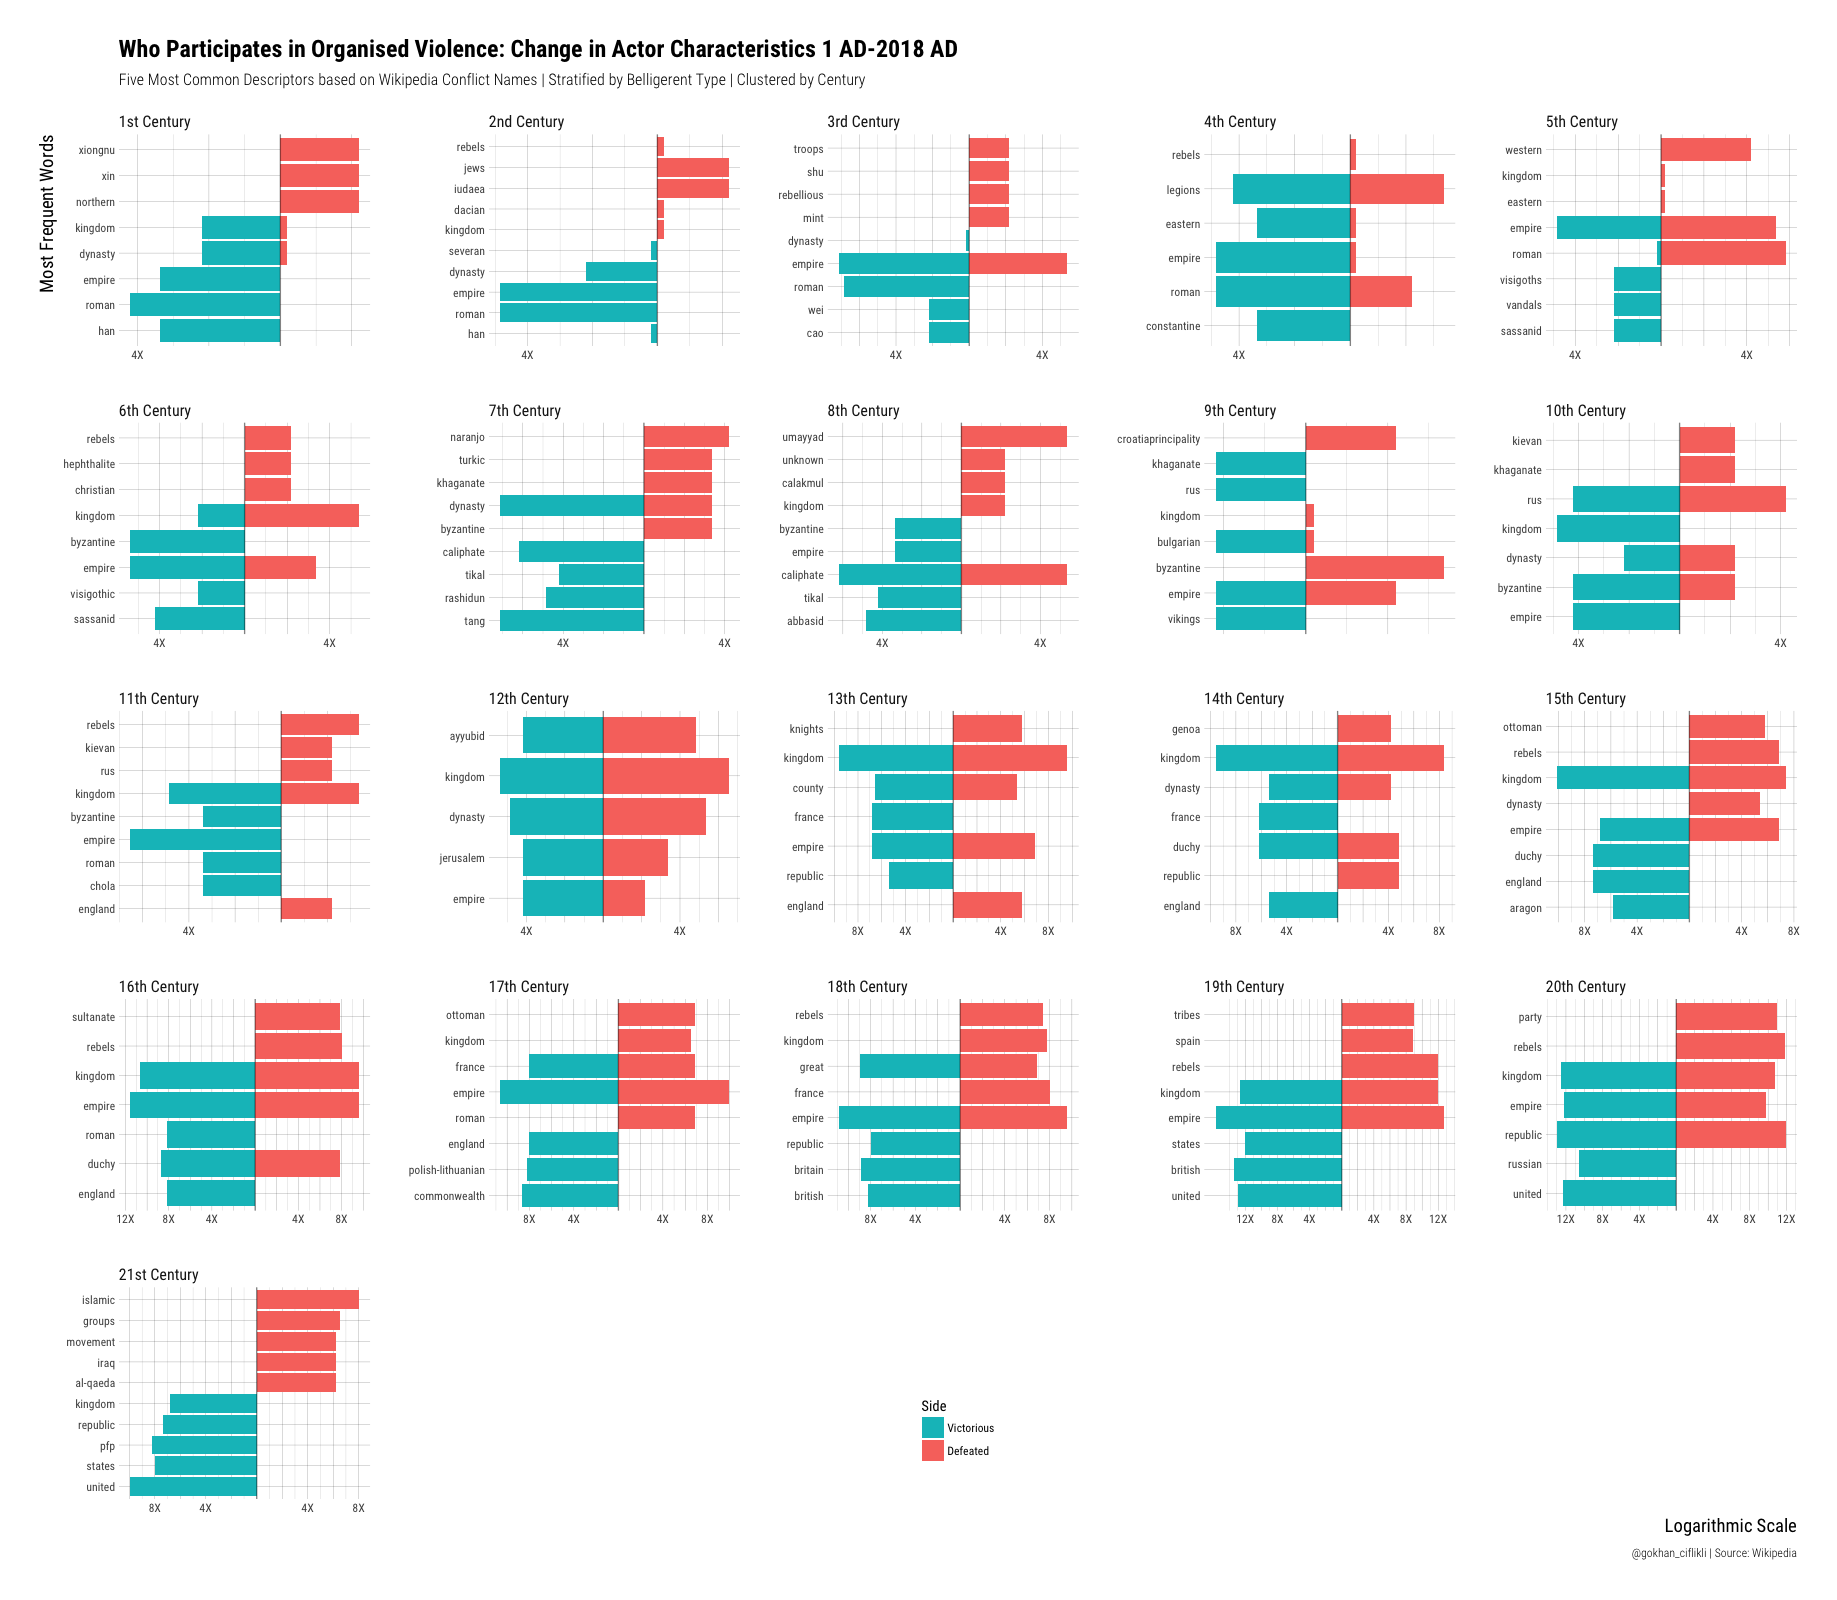
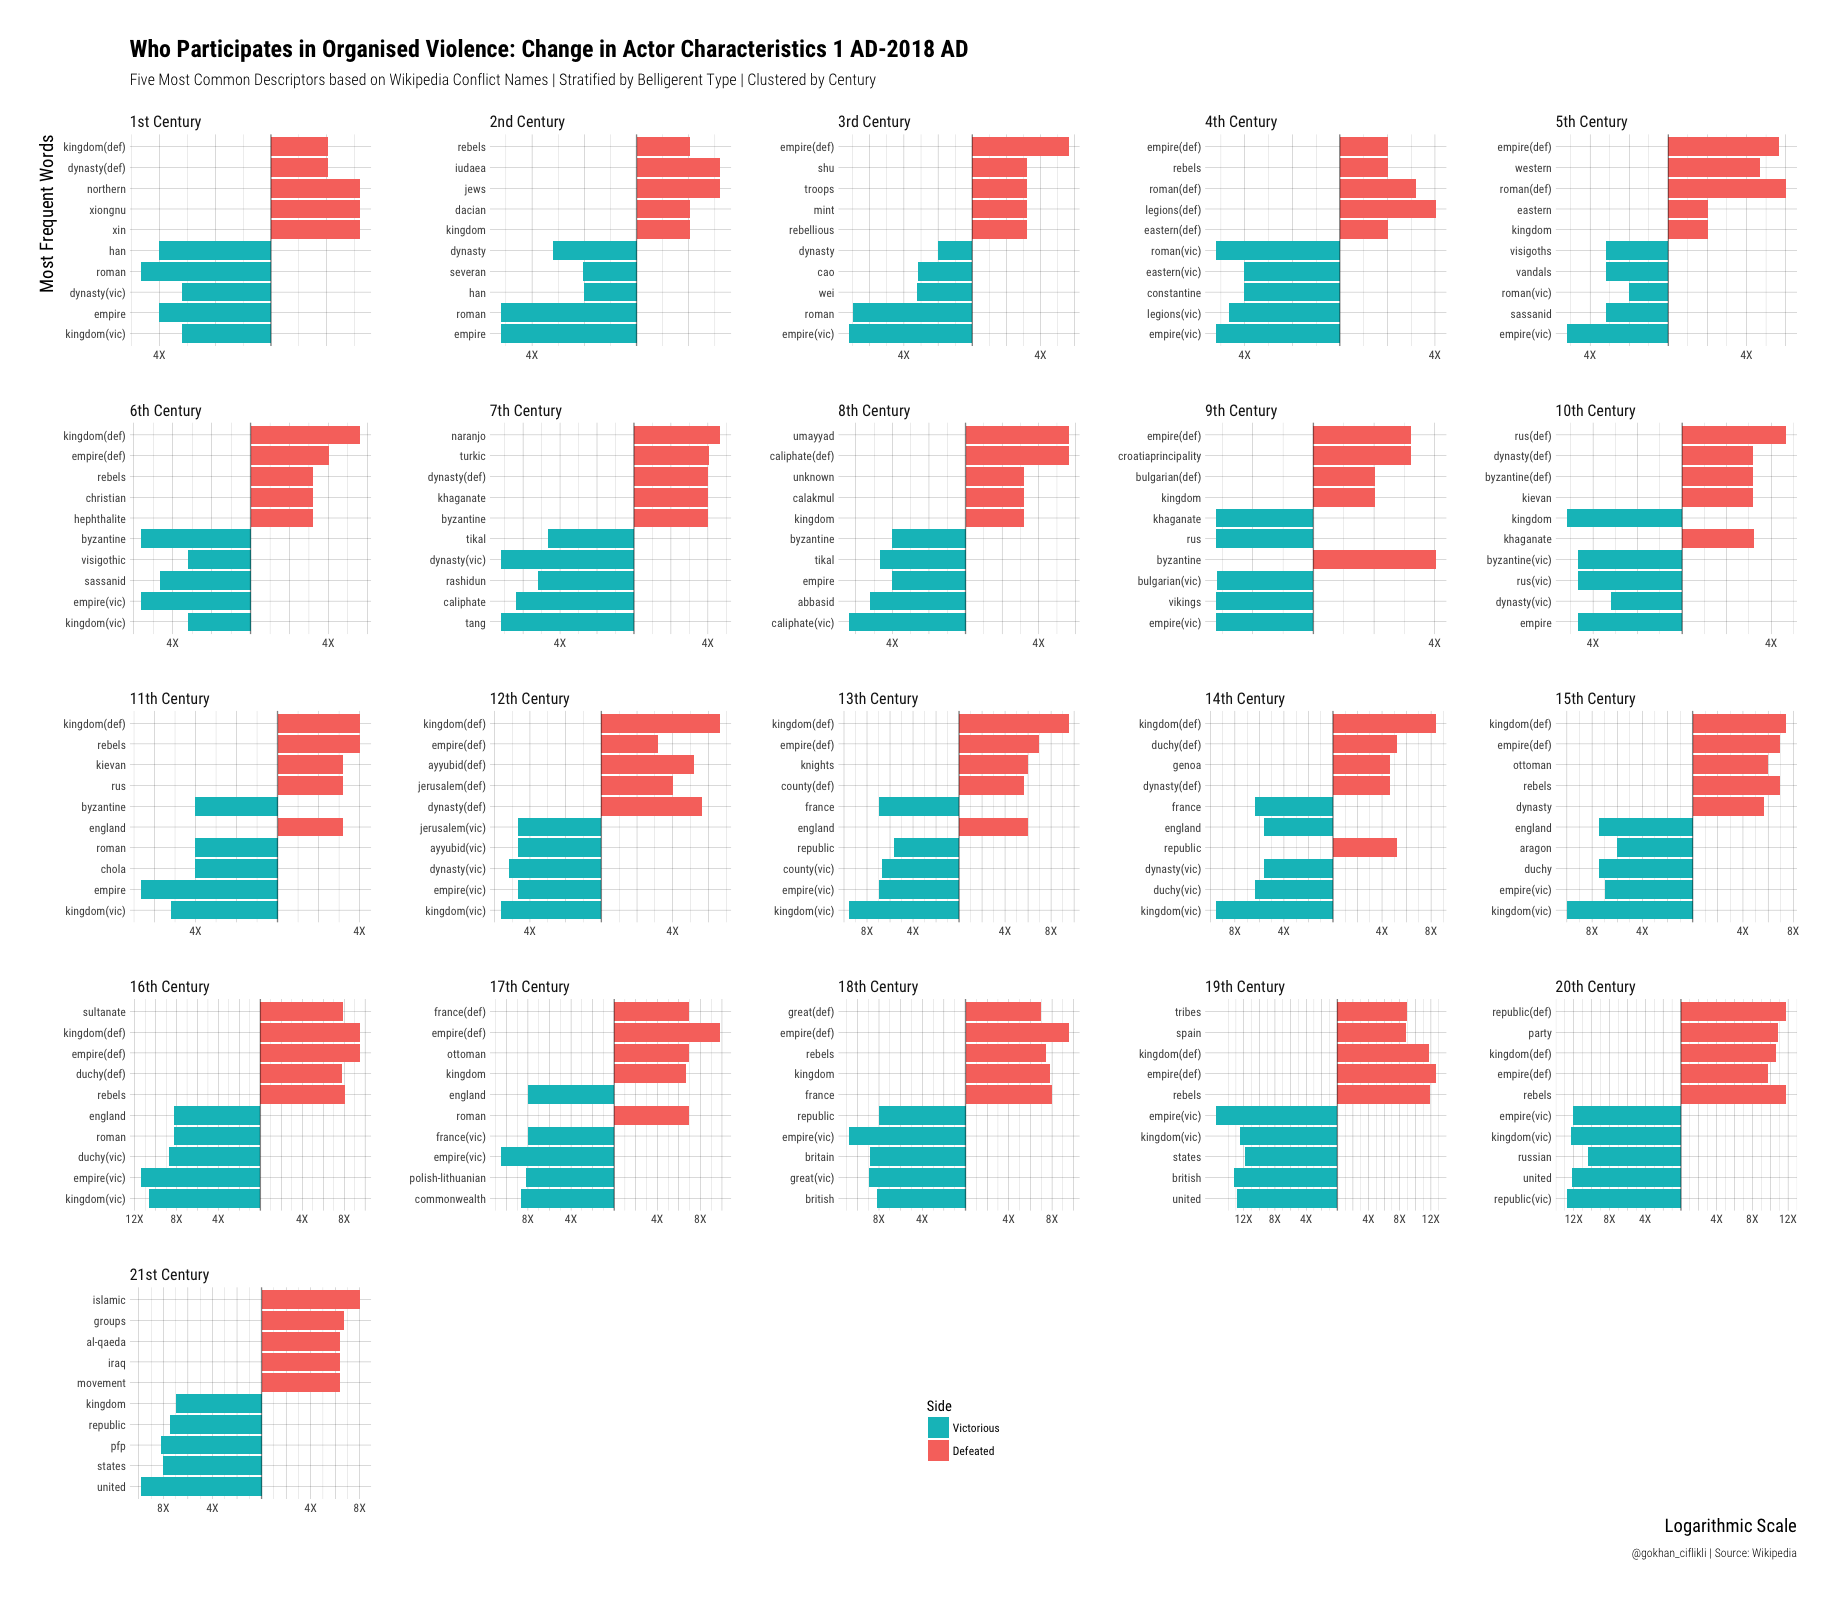
img fix

diff --git a/content/post/2018-01-30-scraping-wikipedia.html b/content/post/2018-01-30-scraping-wikipedia.html
@@ -165,12 +165,14 @@ rownames(sides) &lt;- 1:nrow(sides)
 sides$Count &lt;- log2(sides$Count) + .1
 sides$Count &lt;- ifelse(sides$Side == &quot;Victorious&quot;, -sides$Count, sides$Count)
 sides$Century &lt;- as.factor(sides$Century)
-sides$Century &lt;- factor(sides$Century, levels(sides$Century)[c(11, 14:21, 1:10, 12:13)])</code></pre>
+sides$Century &lt;- factor(sides$Century, levels(sides$Century)[c(11, 14:21, 1:10, 12:13)])
+sides &lt;- sides %&gt;% group_by(Century, Word) %&gt;% mutate(Duplicate = n() - 1)
+sides$Word &lt;- ifelse(sides$Duplicate == 0, sides$Word, paste0(sides$Word, &quot;(&quot;, tolower(substr(sides$Side, 1, 3)), &quot;)&quot;))</code></pre>
 <p>I convert the count value for the victorious side to negative after taking its log for plotting purposes.</p>
 </div>
 <div id="visualise-actor-characteristics" class="section level3">
 <h3>Visualise Actor Characteristics</h3>
-<p>Okay, fun part. Also, note that we need all that code to get the data and clean it up while the visualisations are maybe one little chunk of code. Anyway, the first visualisation I had in mind is the one I used for my <a href="https://www.gokhanciflikli.com/post/weinstein-effect/">Weinstein effect</a> post. In my head-cannon, I call it the ‘tidytext difference chart’, but I’m sure there’s a proper name for it. One thing I couldn’t figure out was the sorting; I believe that’s caused by having the same term in both sides (e.g. ‘empire’ in both victorious and defeated). We can perhaps differentiate them by pasting (vic.) and (def.) after repeating terms, but in the interest of time I left them as they are.</p>
+<p>Okay, fun part. Also, note that we need all that code to get the data and clean it up while the visualisations are maybe one little chunk of code. Anyway, the first visualisation I had in mind is the one I used for my <a href="https://www.gokhanciflikli.com/post/weinstein-effect/">Weinstein effect</a> post. In my head-cannon, I call it the ‘tidytext difference chart’, but I’m sure there’s a proper name for it. One thing I couldn’t figure out was achieving perfect sorting; not sure what causes that (e.g. Byzantine in the 9th Century, Khaganate in the 10th century etc.).</p>
 <pre class="r"><code>ggplot(sides, aes(reorder(Word, Count), Count, fill = Side)) +
   geom_col() +
   coord_flip() +
